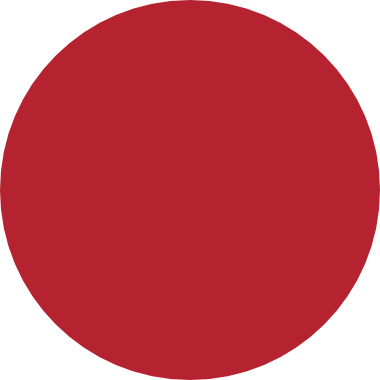
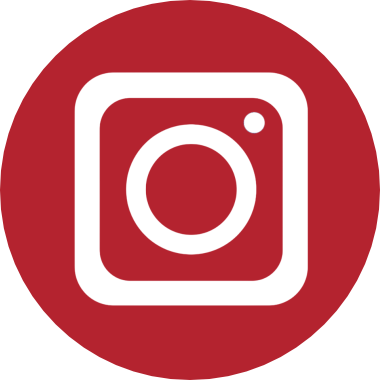
Tamanhos e ícones
Reajuste no tamanho dos h1, h2, h3, e p para ficarem mais visíveis no mobile
Mudança no tamanho dos ícones das redes sociais e um fundo novo para elas

Changed region(s): [[0.1737, 0.1737, 0.8105, 0.8105], [0.3184, 0.3184, 0.6947, 0.6947], [0.6368, 0.2895, 0.6947, 0.3474]]

diff --git a/style.css b/style.css
@@ -3,21 +3,21 @@
           margin: 0;
         }
         h1{
-          font-size: 28px;
+          font-size: 50px;
           margin-bottom: 7px;
         }
         h2{
-          font-size: 24px;
+          font-size: 45px;
         }
         main h3{
-          font-size: 20px;
+          font-size: 40px;
           margin-top: 10px;
         }
         footer h3{
-          font-size: 20px;
+          font-size: 40px;
         }
         p{
-          font-size: 16px;
+          font-size: 35px;
         }
         #subh{
           margin-top: 0%;
@@ -87,7 +87,7 @@
         }
         .containerquestions{
           margin-bottom: 50px;
-          width: 70%;
+          width: 90%;
         }
         #linhacardandquestions{
           width: 75%;
@@ -100,15 +100,15 @@
           align-items: center;
           gap:15px;
           font-weight: bold;
-          font-size: 16px;
+          font-size: 35px;
         }
         .quest{
           display: flex;
           align-items: center;
           justify-content: center;
           box-shadow: 0px 0px 12px 1px #aaa;
-          width: 80%;
-          height: 60px;
+          width: 90%;
+          height: 110px;
         }
         .conte{
           display:none;
@@ -140,7 +140,7 @@
           display:flex;
           justify-content: center;
         }
-        h2#LocalR{
+        h3#LocalR{
           color:white;
         }
         hr{
@@ -172,31 +172,24 @@
         */
         .redes {
           position: fixed;
-          bottom: 20px;
-          right: 20px;
+          bottom: 90px;
+          right: 40px;
           display: flex;
           flex-direction: row-reverse;
           align-items: center;
           gap: 20px;
         }
-        .whaticon{
-          width: 80px;
-          right: 10px;
-          position: relative;
-        }
-        .instaicon{
-          width: 50px;
-          height: 50px;
-          position: relative;
-        }
         #circulo1{
-          width: 75px;
-          right: 85px;
+          width: 90px;
+          right: 130px;
           position: absolute;
         }
         #circulo2{
-          width: 110px;
+          width: 125px;
           right: ;
           position: absolute;
+        }
+        #copyright{
+          font-size: 25px;
         }
        

diff --git a/index.html b/index.html
@@ -32,7 +32,7 @@
       <main>
         <div class="containermain">
           <img src="fachada1.png">
-          <H1 id="ServR"> TRABALHAMOS COM AR-CONDICIONADO AUTOMOTIVO </H1>
+          <H1 id="ServR"> TRABALHAMOS COM <br >AR-CONDICIONADO AUTOMOTIVO </H1>
           <H3 id="subh"> Manutenção e conserto de ar-condicionado de carros, caminhões, maquinas e vans</H3>
           <hr>
           <h2> PRINCIPAIS SERVIÇOS </h2>
@@ -91,17 +91,15 @@
       <footer>
         <div class="containerfooter">
           <div class="contmap">
-            <h2 id="LocalR"> Onde estamos </h2>
+            <h3 id="LocalR"> ONDE ESTAMOS </h3>
             <iframe class="iframemap" src="https://www.google.com/maps/embed?pb=!1m18!1m12!1m3!1d3936.346012717656!2d-40.52384180000001!3d-9.390998499999998!2m3!1f0!2f0!3f0!3m2!1i1024!2i768!4f13.1!3m3!1m2!1s0x773708af1d5fbdd%3A0x6126ae2c3dd561a6!2sEletro%20Ar!5e0!3m2!1spt-BR!2sbr!4v1751040703551!5m2!1spt-BR!2sbr"></iframe>
           </div>
           <div class="redes">
             <img id="circulo1" src="circulovermelho.png">
-            <img id="circulo2" src="circulovermelho.png">
-            <img class="whaticon" src="whatsapplogoSF2.png">
-            <img class="instaicon" src="instagramlogoSF.png">
+            <img id="circulo2" src="circulovermelho2.png">
           </div>
           <div class="textfooter">
-            <p>
+            <p id="copyright">
             <!-- lembrar: Melhorar essa parte, deixar mais formal -->
              © Copyright 2025. Todos os direitos reservados.| EleetroAr PNZ 83.193.229/0001-22
             </p>
